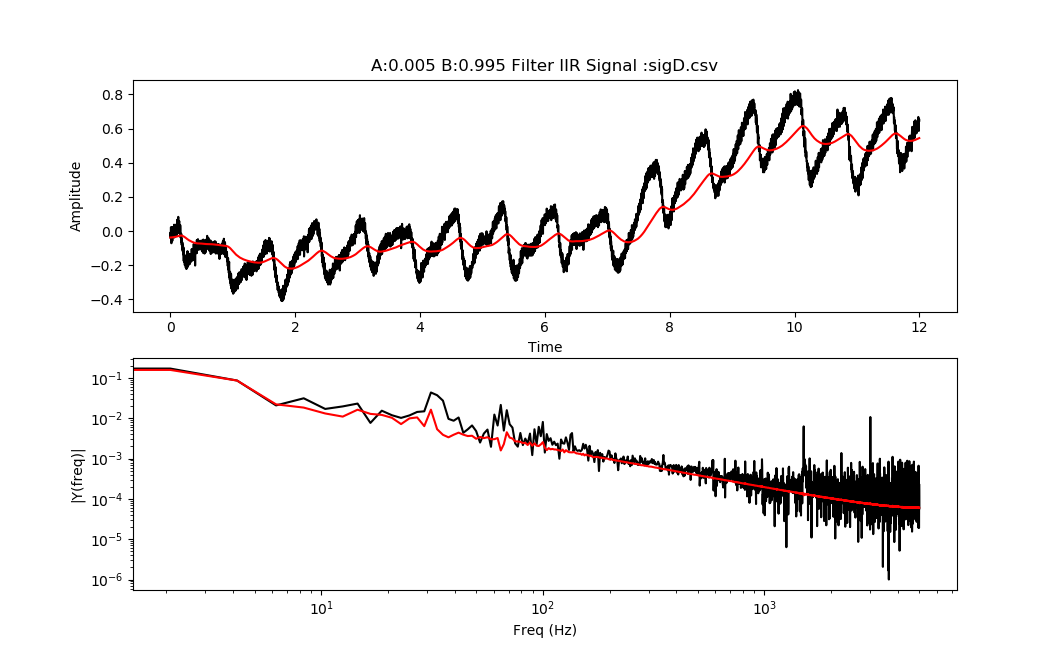
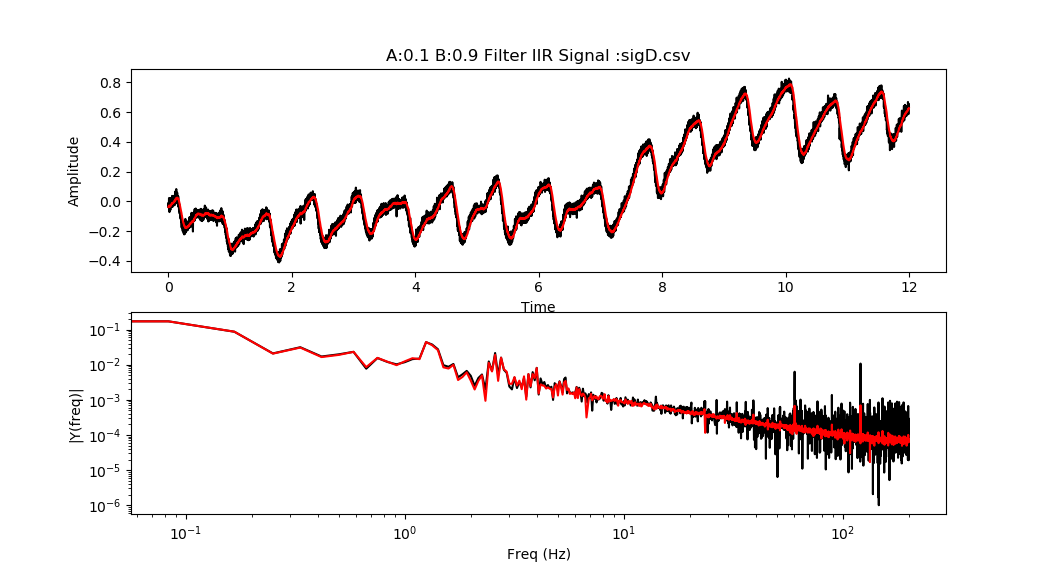
new plot fod D signal

diff --git a/HW2/HW2-DSP/main_Q6.py b/HW2/HW2-DSP/main_Q6.py
@@ -3,8 +3,8 @@ from my_functions import get_data,fft,subplot
 from my_functions import plot_data,plot_data2
 import filter_coefficients
 buffer_size = 250
-file_name = "sigA.csv" 
-A = 0.005
+file_name = "sigD.csv" 
+A = 0.1
 B = 1.0 - A
 
 def low_pass(time,data):

diff --git a/HW2/HW2-DSP/main_Q5.py b/HW2/HW2-DSP/main_Q5.py
@@ -2,7 +2,7 @@ import my_functions
 from my_functions import get_data,fft,subplot
 from my_functions import plot_data,plot_data2
 
-buffer_size = 250
+buffer_size = 20
 file_name = "sigD.csv" 
 
 
